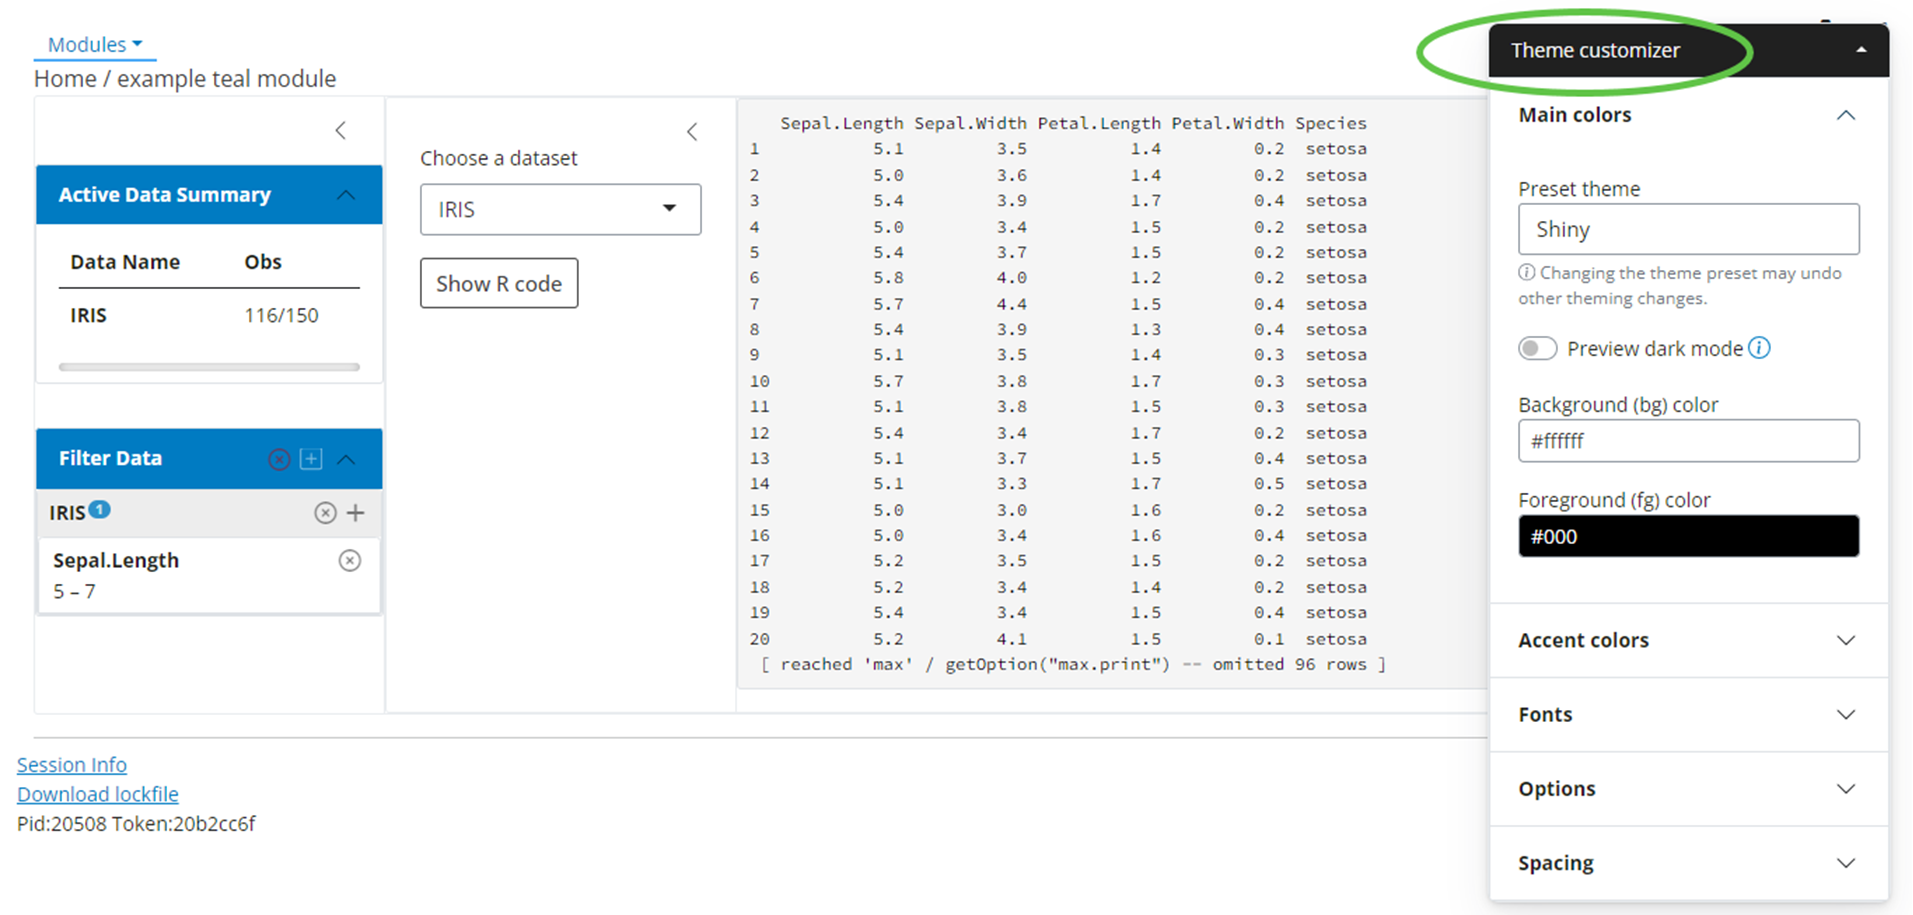
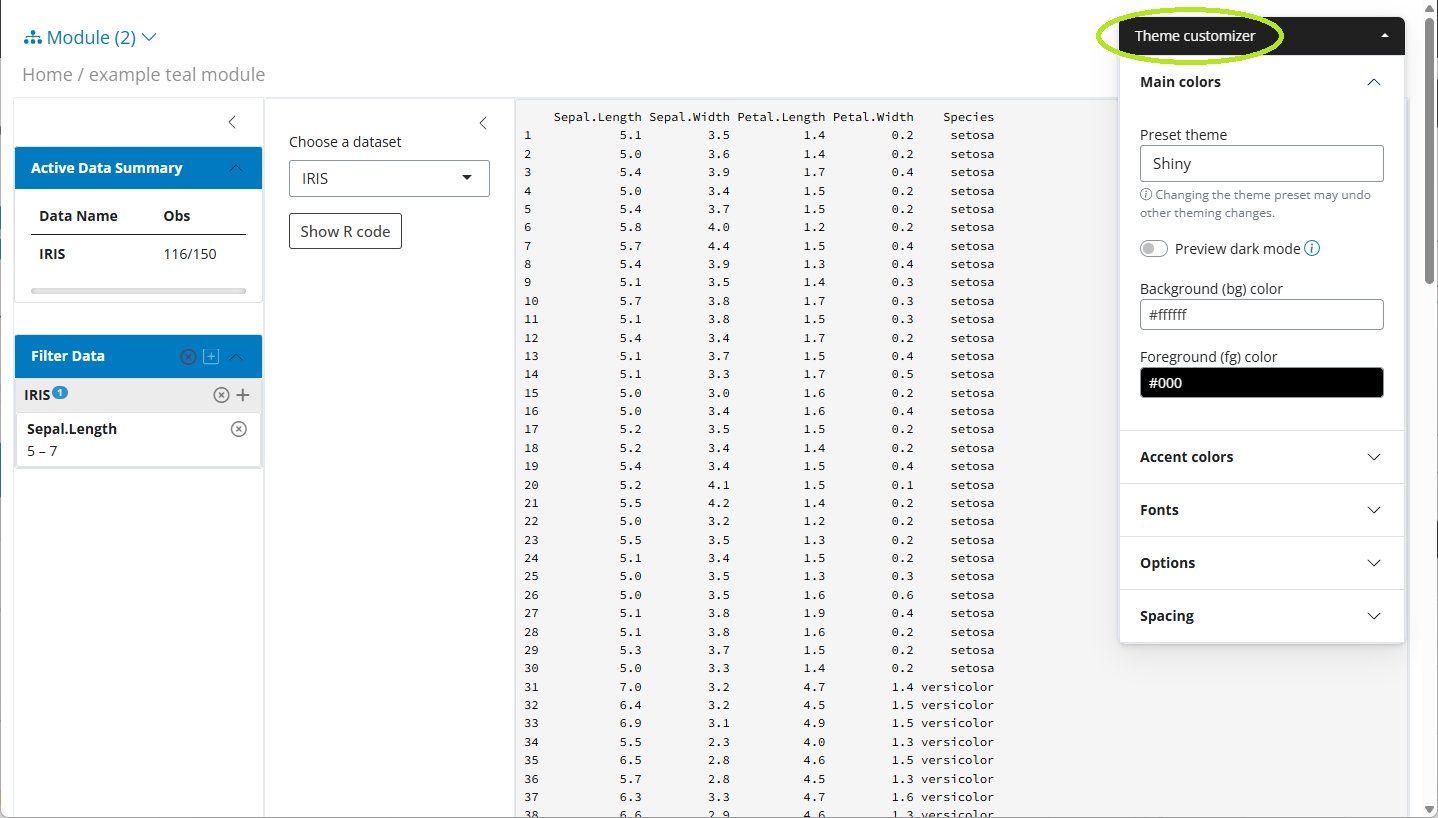
Update vignettes with the latest screenshots (#1574)
Changes:

1. Updated the gif recording for the main readme and pkgdown site
homepage as it contains the older `sessionInfo` link at the bottom +
improve the gif quality.
2. Updated the screenshots from the bootstrap vignette as they too
expose the older `sessionInfo` link + they show local changes like
showing the lockfile download button that is only visible on setting the
option which will not be the case for the majority of the users copy
pasting the example on their local.
3. Updated the show R code and reporter screenshots with meaningful
arrows indicating the relationships between different screens, it was
not clear before.
4. Moved all the image assets inside `vignettes` directory for easy
reference and maintenance.

diff --git a/README.md b/README.md
@@ -1,6 +1,7 @@
 # `teal`: Interactive Exploratory Data Analysis with `Shiny` Web-Applications <a href='https://insightsengineering.github.io/teal/'><img src="man/figures/logo.svg" align="right" height="139" style="max-width: 100%; max-height: 139px;"/></a  >
 
 <!-- start badges -->
+
 [![CRAN Version](https://www.r-pkg.org/badges/version/teal?color=green)](https://cran.r-project.org/package=teal)
 [![Total Downloads](http://cranlogs.r-pkg.org/badges/grand-total/teal?color=green)](https://cran.r-project.org/package=teal)
 [![Last Month Downloads](http://cranlogs.r-pkg.org/badges/last-month/teal?color=green)](https://cran.r-project.org/package=teal)
@@ -20,35 +21,39 @@
 ![GitHub repo size](https://img.shields.io/github/repo-size/insightsengineering/teal)
 ![GitHub language count](https://img.shields.io/github/languages/count/insightsengineering/teal)
 [![Project Status: Active – The project has reached a stable, usable state and is being actively developed.](https://www.repostatus.org/badges/latest/active.svg)](https://www.repostatus.org/#active)
-[![Current Version](https://img.shields.io/github/r-package/v/insightsengineering/teal/main?color=purple\&label=package%20version)](https://github.com/insightsengineering/teal/tree/main)
-[![Open Issues](https://img.shields.io/github/issues-raw/insightsengineering/teal?color=red\&label=open%20issues)](https://github.com/insightsengineering/teal/issues?q=is%3Aissue+is%3Aopen+sort%3Aupdated-desc)
+[![Current Version](https://img.shields.io/github/r-package/v/insightsengineering/teal/main?color=purple&label=package%20version)](https://github.com/insightsengineering/teal/tree/main)
+[![Open Issues](https://img.shields.io/github/issues-raw/insightsengineering/teal?color=red&label=open%20issues)](https://github.com/insightsengineering/teal/issues?q=is%3Aissue+is%3Aopen+sort%3Aupdated-desc)
+
 <!-- end badges -->
 
 `teal` is a `shiny`-based interactive exploration framework for analyzing data. `teal` applications require app developers to specify:
 
 <!-- markdownlint-disable MD007 MD030 -->
--   Data, which can be:
-    -    CDISC data, commonly used for clinical trial reporting
-    -    Independent datasets, for example from a `data.frame`
-    -    Related datasets, for example a set of `data.frames` with key columns to enable data joins
-    -    `MultiAssayExperiment` objects which are `R` data structures for representing and analyzing multi-omics experiments
--   `teal` modules:
-    -   `teal modules` are `shiny` modules built within the `teal` framework that specify analysis to be performed. For example, it can be a module for exploring outliers in the data, or a module for visualizing the data in line plots. Although these can be created from scratch, many `teal` modules have been released and we recommend starting with modules found in the following packages:
-        -   [`teal.modules.general`](https://insightsengineering.github.io/teal.modules.general/latest-tag/): general modules for exploring relational/independent/CDISC data
-        -   [`teal.modules.clinical`](https://insightsengineering.github.io/teal.modules.clinical/latest-tag/): modules specific to CDISC data and clinical trial reporting
-        -   [`teal.modules.hermes`](https://insightsengineering.github.io/teal.modules.hermes/latest-tag/): modules for analyzing `MultiAssayExperiment` objects
+
+- Data, which can be:
+  - CDISC data, commonly used for clinical trial reporting
+  - Independent datasets, for example from a `data.frame`
+  - Related datasets, for example a set of `data.frames` with key columns to enable data joins
+  - `MultiAssayExperiment` objects which are `R` data structures for representing and analyzing multi-omics experiments
+- `teal` modules:
+  - `teal modules` are `shiny` modules built within the `teal` framework that specify analysis to be performed. For example, it can be a module for exploring outliers in the data, or a module for visualizing the data in line plots. Although these can be created from scratch, many `teal` modules have been released and we recommend starting with modules found in the following packages:
+    - [`teal.modules.general`](https://insightsengineering.github.io/teal.modules.general/latest-tag/): general modules for exploring relational/independent/CDISC data
+    - [`teal.modules.clinical`](https://insightsengineering.github.io/teal.modules.clinical/latest-tag/): modules specific to CDISC data and clinical trial reporting
+    - [`teal.modules.hermes`](https://insightsengineering.github.io/teal.modules.hermes/latest-tag/): modules for analyzing `MultiAssayExperiment` objects
 
 <!-- markdownlint-enable MD007 MD030 -->
 
 A lot of the functionality of the `teal` framework derives from the following packages:
 
 <!-- markdownlint-disable MD007 MD030 -->
--   [`teal.data`](https://insightsengineering.github.io/teal.data/latest-tag/): creating and loading the data needed for `teal` applications.
--   [`teal.widgets`](https://insightsengineering.github.io/teal.widgets/latest-tag/): `shiny` components used within `teal`.
--   [`teal.slice`](https://insightsengineering.github.io/teal.slice/latest-tag/): provides a filtering panel to allow filtering of data.
--   [`teal.code`](https://insightsengineering.github.io/teal.code/latest-tag/): handles reproducibility of outputs.
--   [`teal.logger`](https://insightsengineering.github.io/teal.logger/latest-tag/): standardizes logging within `teal` framework.
--   [`teal.reporter`](https://insightsengineering.github.io/teal.reporter/latest-tag/): allows `teal` applications to generate reports.
+
+- [`teal.logger`](https://insightsengineering.github.io/teal.logger/latest-tag/): standardizes logging within `teal` framework.
+- [`teal.code`](https://insightsengineering.github.io/teal.code/latest-tag/): handles reproducibility of outputs.
+- [`teal.data`](https://insightsengineering.github.io/teal.data/latest-tag/): creating and loading the data needed for `teal` applications.
+- [`teal.widgets`](https://insightsengineering.github.io/teal.widgets/latest-tag/): `shiny` components used within `teal`.
+- [`teal.slice`](https://insightsengineering.github.io/teal.slice/latest-tag/): provides a filtering panel to allow filtering of data.
+- [`teal.reporter`](https://insightsengineering.github.io/teal.reporter/latest-tag/): allows `teal` applications to generate reports.
+- [`teal.transform`](https://insightsengineering.github.io/teal.transform/latest-tag/): allows the creation of reproducible transform and merge module for teal applications.
 
 Dive deeper into `teal` with our comprehensive video guide.
 Please click the image below to start learning:
@@ -106,7 +111,7 @@ app <- init(
 shinyApp(app$ui, app$server)
 ```
 
-![App recording](man/figures/readme_app.webp)
+![App recording](man/figures/readme_app.gif)
 
 Please see [`teal.gallery`](https://insightsengineering.github.io/teal.gallery/) and [TLG Catalog](https://insightsengineering.github.io/tlg-catalog/) to see examples of `teal` apps.
 
